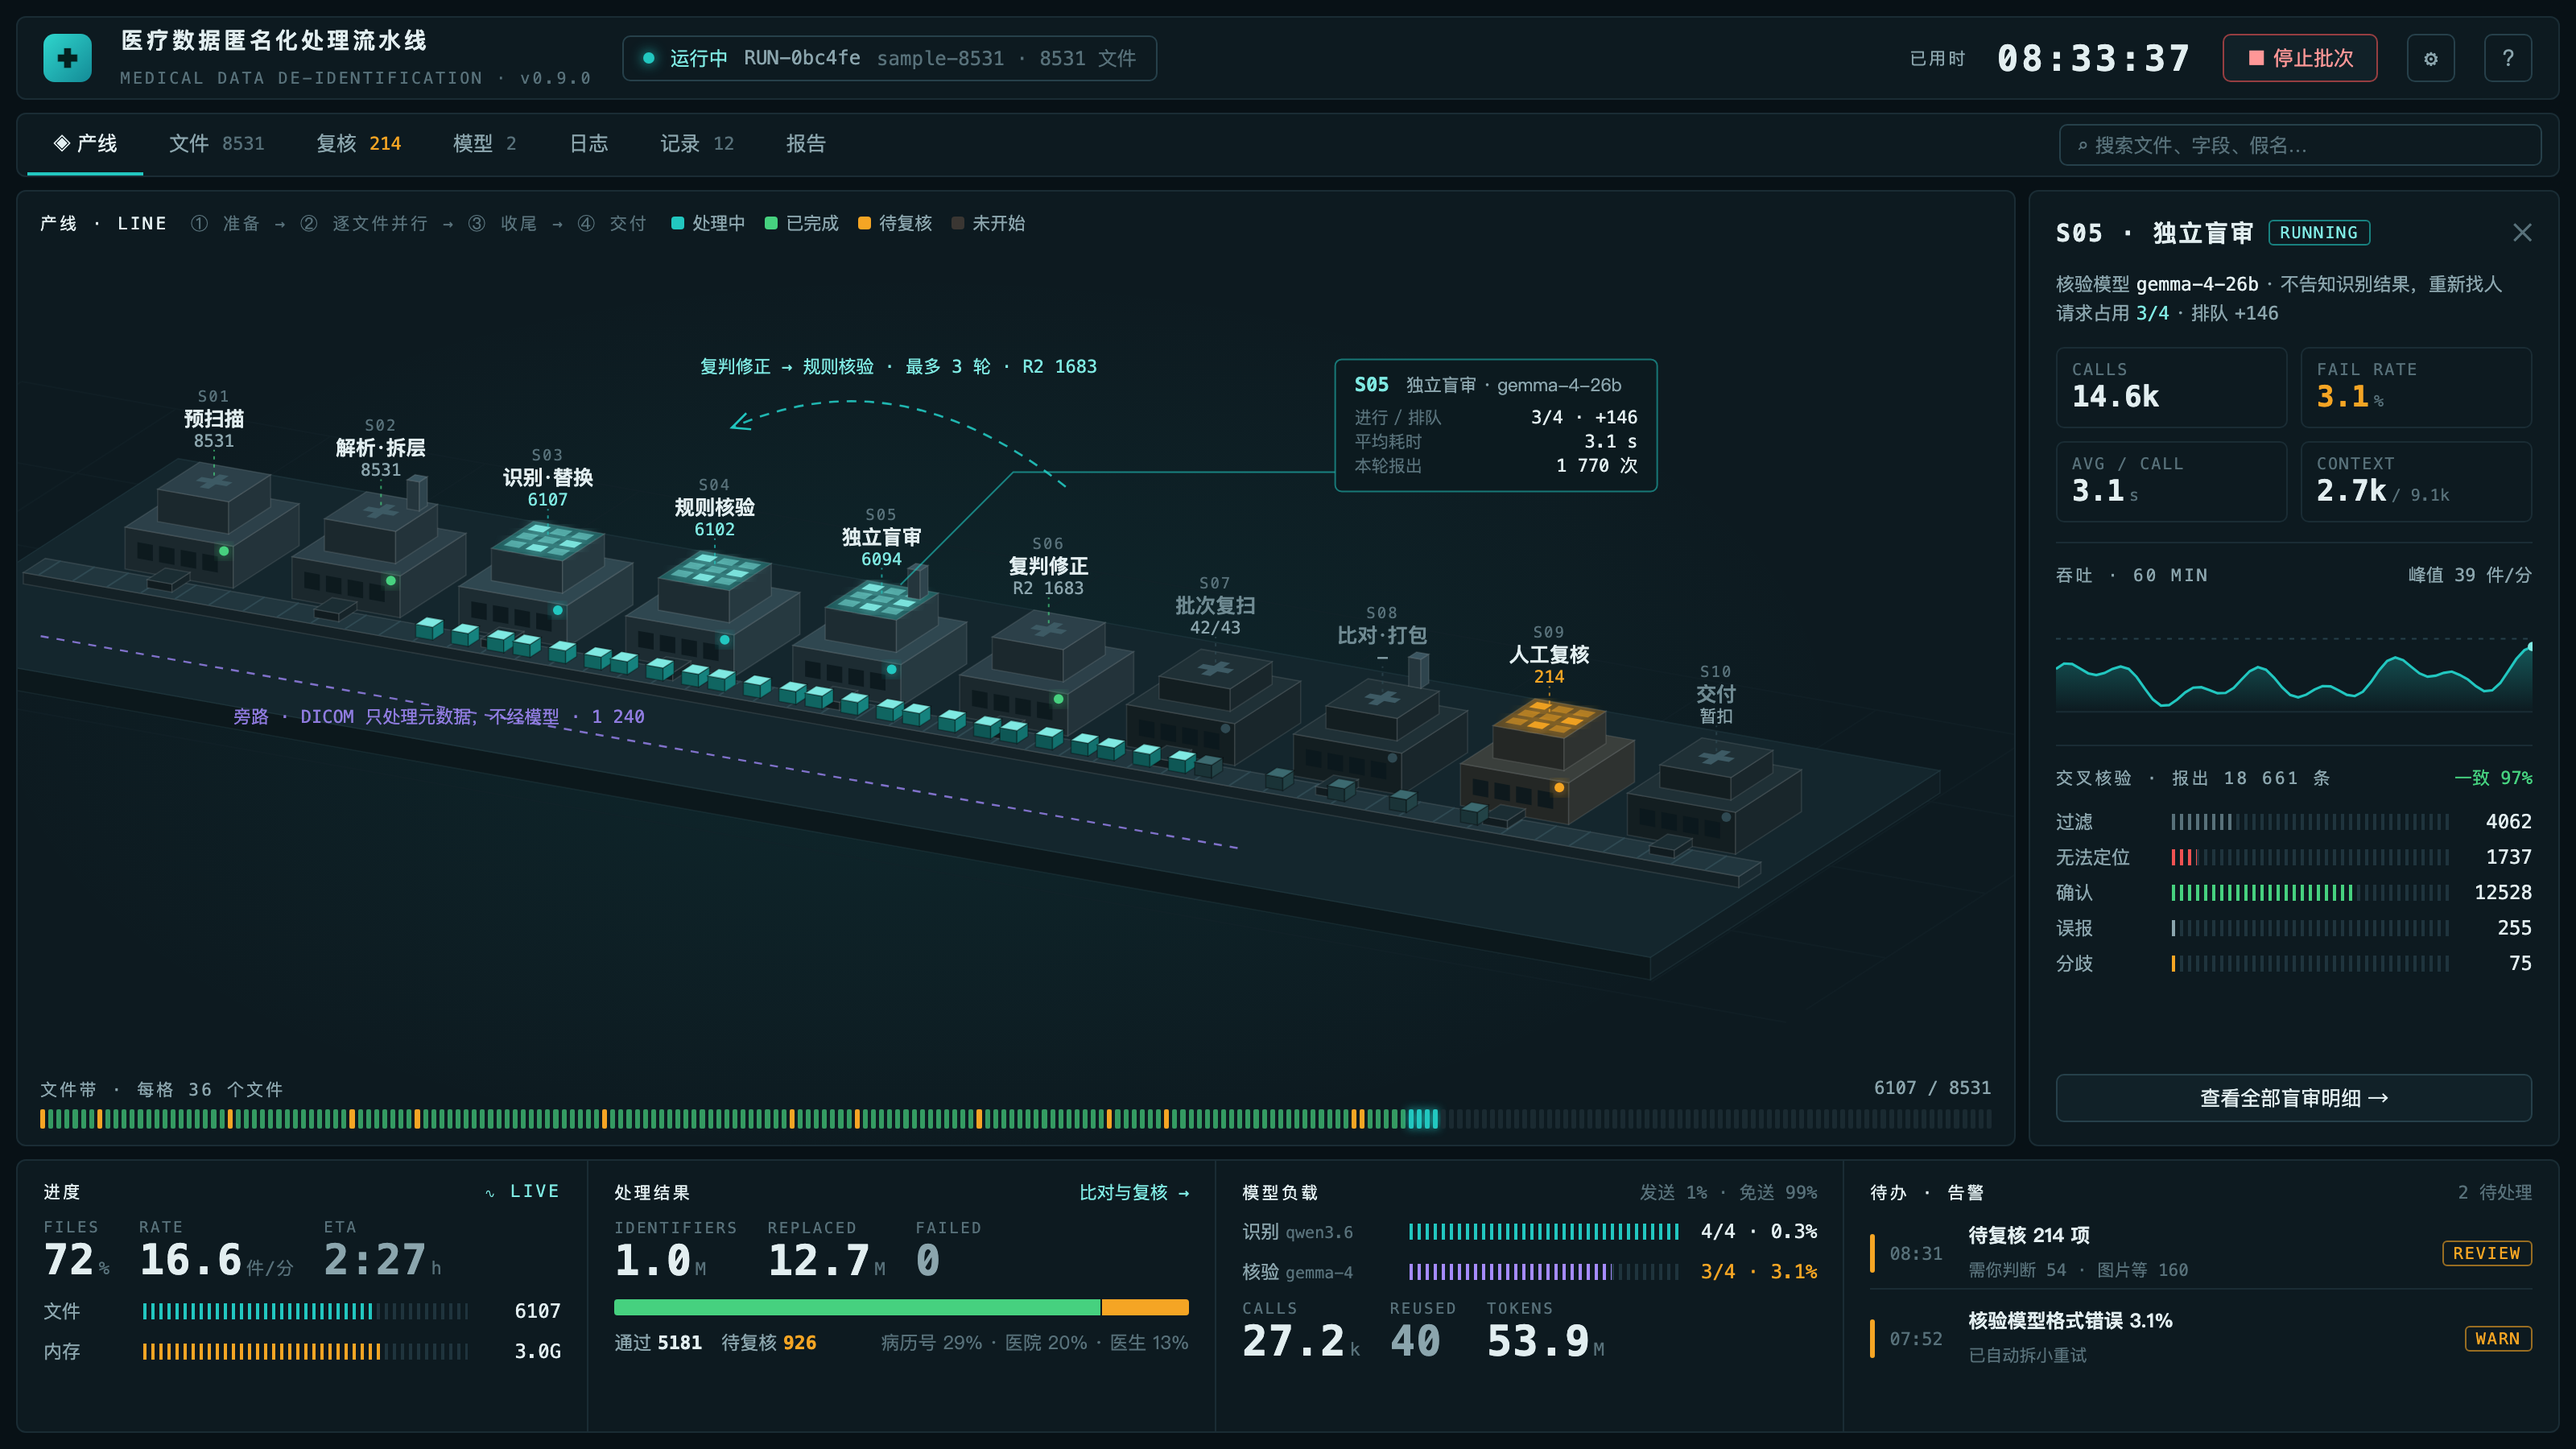
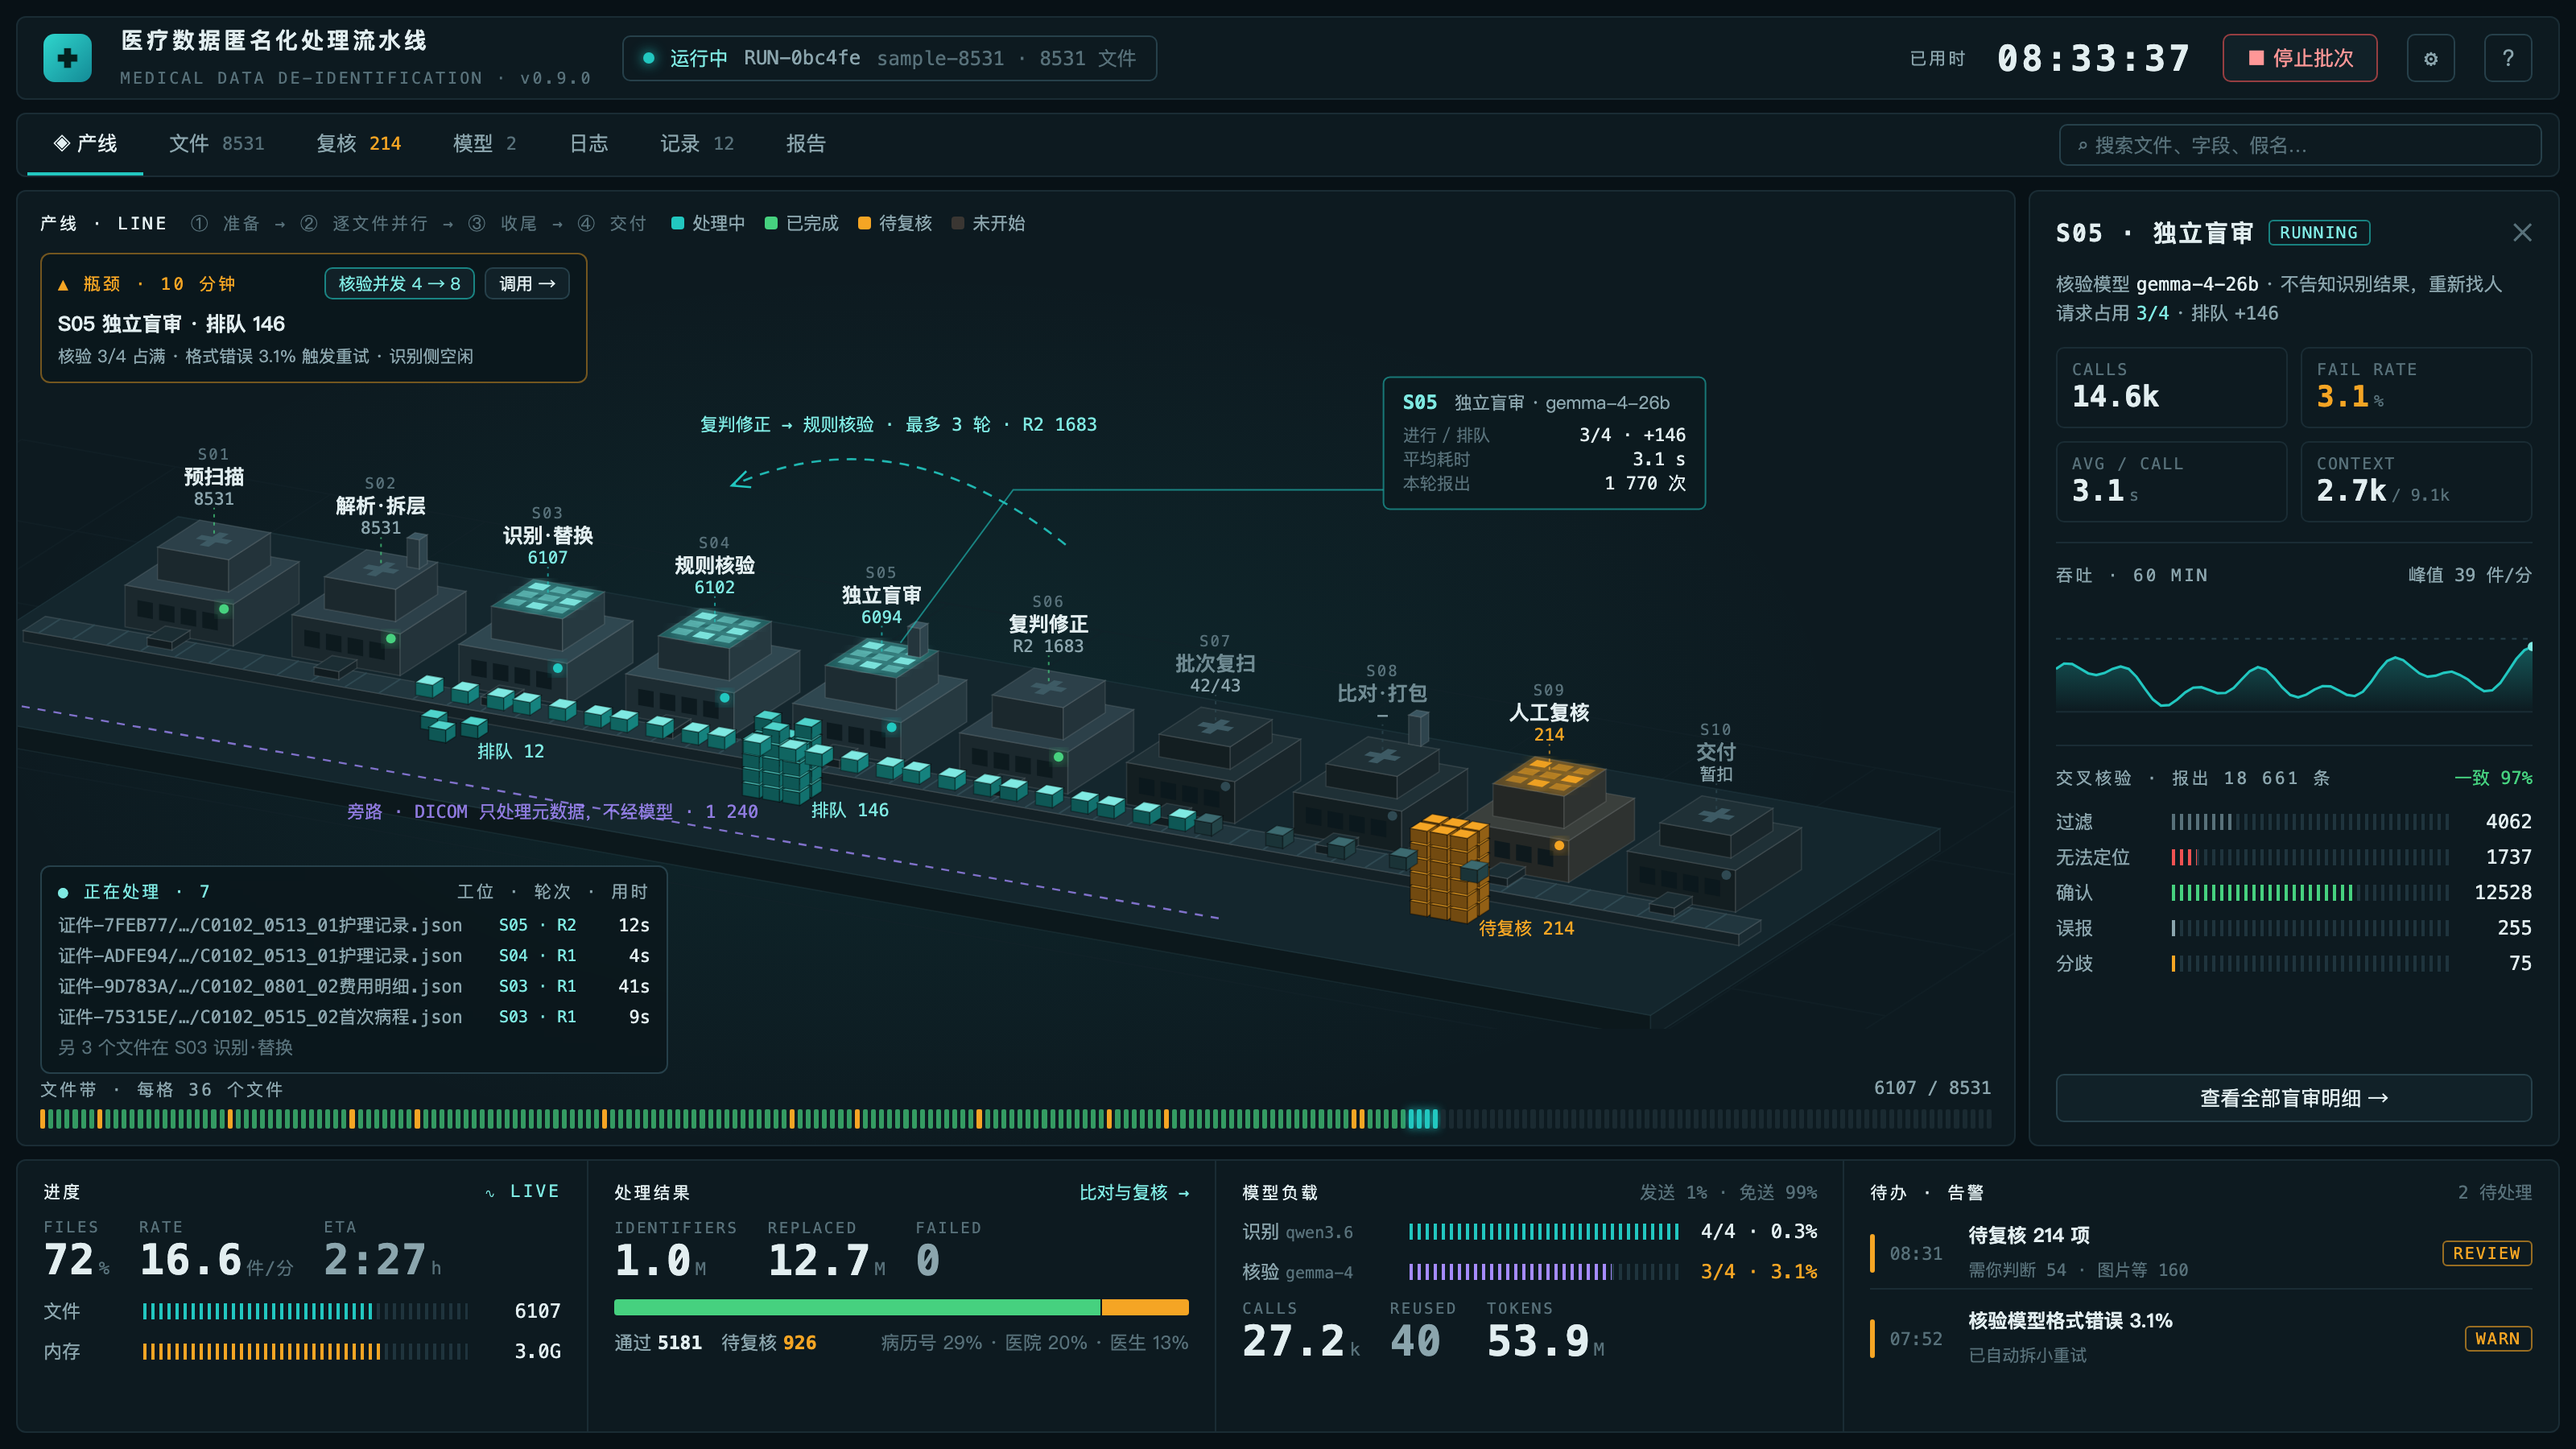
Mockup: fill the 2.5D stage (bottleneck card, in-flight list, queue piles per station)

diff --git a/design/mockup-teal.html b/design/mockup-teal.html
@@ -50,6 +50,16 @@
   .legend { display: flex; gap: 12px; font-size: 11px; color: var(--ink2); }
   .legend i { display: inline-block; width: 8px; height: 8px; border-radius: 2px; margin-right: 5px; vertical-align: 0; }
   .strip { position: absolute; left: 14px; right: 14px; bottom: 10px; }
+  .ov { position: absolute; border: 1px solid var(--line2); background: rgba(10,22,27,.82); backdrop-filter: blur(4px); border-radius: 6px; padding: 8px 10px; display: flex; flex-direction: column; gap: 4px; }
+  .ov-tl { left: 14px; bottom: 44px; width: 390px; }
+  .ov-br { left: 14px; top: 38px; width: 340px; border-color: rgba(245,165,36,.45); }
+  .ovh { display: flex; justify-content: space-between; align-items: center; gap: 8px; margin-bottom: 2px; white-space: nowrap; }
+  .ovh .btn { white-space: nowrap; }
+  .ovr { display: grid; grid-template-columns: minmax(0,1fr) 54px 32px; gap: 8px; font-size: 11px; color: var(--ink2); align-items: center; }
+  .ovr span { overflow: hidden; text-overflow: ellipsis; white-space: nowrap; }
+  .ovr i { font-style: normal; font-family: var(--mono); font-size: 10px; color: var(--amber2); }
+  .ovr b { font-family: var(--mono); font-weight: 500; text-align: right; color: var(--ink); }
+  .ovr.dim span { color: var(--ink3); }
   .strip .row { display: flex; justify-content: space-between; margin-bottom: 5px; }
   .cells { display: flex; gap: 2px; height: 12px; }
   .cells i { flex: 1; border-radius: 1px; background: #1a2a31; }
@@ -131,6 +141,19 @@
         <span class="cap" style="color:var(--ink3)">① 准备 → ② 逐文件并行 → ③ 收尾 → ④ 交付</span>
         <div class="legend"><span><i style="background:var(--amber)"></i>处理中</span><span><i style="background:var(--ok)"></i>已完成</span><span><i style="background:var(--warn)"></i>待复核</span><span><i style="background:#3a3632"></i>未开始</span></div>
       </div>
+      <div class="ov ov-tl">
+        <div class="ovh"><span class="cap" style="color:var(--amber2)">● 正在处理 · 7</span><span class="cap">工位 · 轮次 · 用时</span></div>
+        <div class="ovr"><span class="num">证件-7FEB77/…/C0102_0513_01护理记录.json</span><i>S05 · R2</i><b>12s</b></div>
+        <div class="ovr"><span class="num">证件-ADFE94/…/C0102_0513_01护理记录.json</span><i>S04 · R1</i><b>4s</b></div>
+        <div class="ovr"><span class="num">证件-9D783A/…/C0102_0801_02费用明细.json</span><i>S03 · R1</i><b>41s</b></div>
+        <div class="ovr"><span class="num">证件-75315E/…/C0102_0515_02首次病程.json</span><i>S03 · R1</i><b>9s</b></div>
+        <div class="ovr dim"><span>另 3 个文件在 S03 识别·替换</span><i></i><b></b></div>
+      </div>
+      <div class="ov ov-br">
+        <div class="ovh"><span class="cap" style="color:var(--warn)">▲ 瓶颈 · 10 分钟</span><span style="display:flex;gap:6px"><span class="btn" style="height:20px;font-size:10.5px;padding:0 8px;border-color:rgba(34,199,192,.6);color:var(--amber2)">核验并发 4 → 8</span><span class="btn" style="height:20px;font-size:10.5px;padding:0 8px">调用 →</span></span></div>
+        <div style="font-size:12.5px;font-weight:600">S05 独立盲审 · 排队 146</div>
+        <div class="sub" style="font-size:10.5px;line-height:15px;white-space:nowrap">核验 3/4 占满 · 格式错误 3.1% 触发重试 · 识别侧空闲</div>
+      </div>
       <div class="strip">
         <div class="row"><span class="cap">文件带 · 每格 36 个文件</span><span class="num" style="font-size:11px;color:var(--ink2)">6107 / 8531</span></div>
         <div class="cells" id="cells"></div>
@@ -201,7 +224,7 @@
 // ---------- 2.5D production line (dimetric projection) ----------
 const svg = document.getElementById('iso')
 const NS = 'http://www.w3.org/2000/svg'
-const O = { x: 120, y: 200 }
+const O = { x: 120, y: 236 }
 const P = (x, y, z = 0) => [O.x + x * 0.96 - y * 0.62, O.y + x * 0.17 + y * 0.40 - z]
 const el = (tag, attrs, parent = svg) => { const n = document.createElementNS(NS, tag); for (const k in attrs) n.setAttribute(k, attrs[k]); parent.appendChild(n); return n }
 const poly = (pts, attrs) => el('polygon', { points: pts.map((p) => p.join(',')).join(' '), ...attrs })
@@ -247,9 +270,9 @@ for (let x = -30; x < 1070; x += 22) { const a = P(x, 104, 7.2), b = P(x, 126, 7
 
 // DICOM bypass on the floor in front
 ;(() => {
-  const a = P(10, 186, 0), b = P(STEP * 7 + 30, 186, 0)
+  const a = P(10, 205, 0), b = P(STEP * 7 + 30, 205, 0)
   el('line', { x1: a[0], y1: a[1], x2: b[0], y2: b[1], stroke: '#a58bff', 'stroke-width': 1.2, 'stroke-dasharray': '5 5', opacity: .75 })
-  const m = P(STEP * 2.6, 206, 0)
+  const m = P(STEP * 3.4, 226, 0)
   el('text', { x: m[0], y: m[1], fill: '#a58bff', 'font-size': 11, 'font-family': 'SF Mono, Menlo, monospace', 'text-anchor': 'middle', opacity: .85 }).textContent = '旁路 · DICOM 只处理元数据，不经模型 · 1 240'
 })()
 
@@ -295,6 +318,18 @@ ST.forEach(([code, name, state, stat], i) => {
   el('text', { x: lx, y: top + 32, fill: state === 'warn' ? '#f5a524' : state === 'active' ? '#7fe9e2' : '#8ba5ad', 'font-size': 10.5, 'font-family': 'SF Mono, Menlo, monospace', 'text-anchor': 'middle' }).textContent = stat
 })
 
+// waiting files piled in front of each station: height = queue length
+const piles = [[2, 12, 'q'], [4, 146, 'q'], [8, 214, 'w']]
+piles.forEach(([i, n, kind]) => {
+  const levels = Math.min(6, Math.ceil(n / 30)), x0 = i * STEP + 14, y0 = 136
+  for (let lv = 0; lv < levels; lv++) for (let a = 0; a < 3; a++) for (let b = 0; b < 2; b++) {
+    if (lv === levels - 1 && (a + b) % 2 && n < 200) continue
+    box(x0 + a * 13, y0 + b * 12, lv * 9, 11, 10, 8, kind === 'w' ? '#b8781a' : '#178d89', { top: kind === 'w' ? '#f5a524' : '#4fd3cb', stroke: 'rgba(0,0,0,.35)' })
+  }
+  const t = P(x0 + 20, y0 + 26, 0)
+  el('text', { x: t[0] + 26, y: t[1] + 8, fill: kind === 'w' ? '#f5a524' : '#7fe9e2', 'font-size': 11, 'font-family': 'SF Mono, Menlo, monospace' }).textContent = kind === 'w' ? `待复核 ${n}` : `排队 ${n}`
+})
+
 // files on the belt
 for (let k = 0; k < 34; k++) {
   const x = 210 + k * 21 + (k % 3) * 2
@@ -316,7 +351,7 @@ for (let k = 0; k < 34; k++) {
 // hover card on S05
 ;(() => {
   const p = P(4 * STEP + 40, 40, 52)
-  const gx = p[0] + 270, gy = p[1] - 140
+  const gx = p[0] + 300, gy = p[1] - 165
   el('polyline', { points: `${p[0]},${p[1]} ${p[0] + 70},${gy + 70} ${gx},${gy + 70}`, fill: 'none', stroke: '#22c7c0', 'stroke-width': 1, opacity: .6 })
   el('rect', { x: gx, y: gy, width: 200, height: 82, rx: 4, fill: 'rgba(13,26,32,.95)', stroke: '#22c7c0', 'stroke-opacity': .55 })
   const t = (x, y, txt, attrs) => { el('text', { x, y, ...attrs }).textContent = txt }
